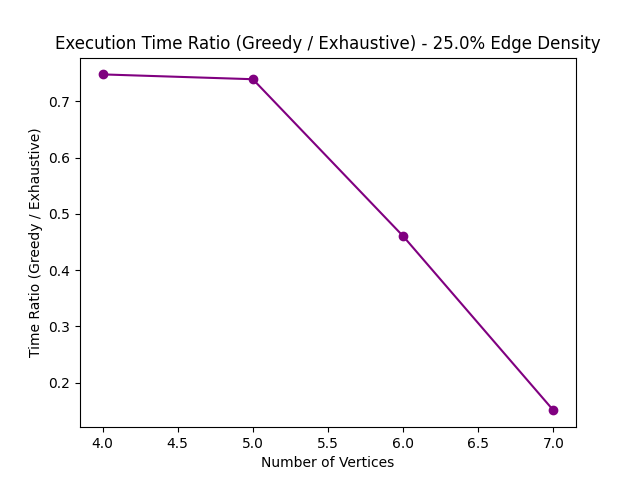
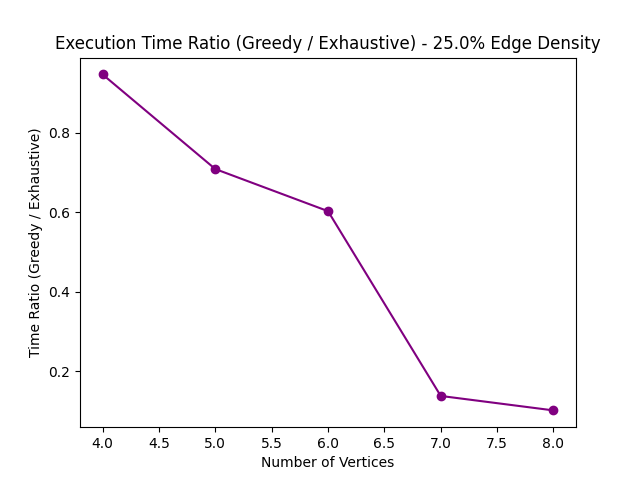
greedy working

diff --git a/projeto1/algorithms.py b/projeto1/algorithms.py
@@ -3,9 +3,7 @@ from functools import lru_cache
 import networkx as nx
 
 def is_edge_dominating_set(G, edge_set):
-    #For each edge not in the subset, check if it has at least one vertice in the subset
     for u, v in G.edges:
-        #Check if the edge has a vertex in common with some edge of the subset
         if not any((u in (u1, v1) or v in (u1, v1)) for u1, v1, w in edge_set):
             return False
     return True
@@ -15,7 +13,7 @@ def exhaustive_search_mweds(G):
     min_weight_set = []
     
 
-    edges = G.edges(data= "weight")  # Includes edge weights
+    edges = G.edges(data= "weight")
     all_edges = G.number_of_edges()
 
     for r in range(1, all_edges + 1):
@@ -45,6 +43,25 @@ def greedy_mweds(G):
             # Stop once all edges are covered
             if len(covered_edges) >= len(G.edges):
                 break
+
+    total_weight = sum(weight for u, v, weight in dominating_set)
+    return dominating_set, total_weight
+
+import networkx as nx
+
+def greedy_mweds(G):
+    edge_list = sorted(G.edges(data='weight'), key=lambda x: x[2])
+    dominating_set = []
+    covered_edges = set()
+
+    for u, v, weight in edge_list:
+        if (u, v) not in covered_edges:
+            dominating_set.append((u, v, weight))
+            covered_edges.update(G.edges(u))
+            covered_edges.update(G.edges(v))
+
+            if all(any((u in (u1, v1) or v in (u1, v1)) for u1, v1, w in dominating_set) for u, v in G.edges):
+                break 
 
     total_weight = sum(weight for u, v, weight in dominating_set)
     return dominating_set, total_weight
